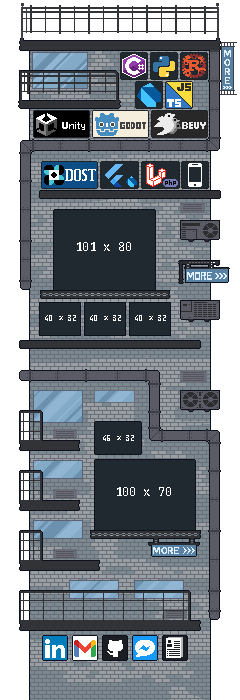
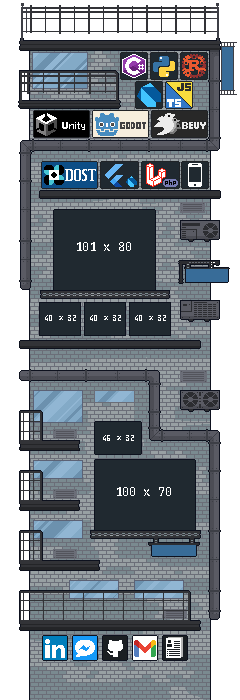
tweak: update building
'More' buttons now use consistent font
swapped position of Messenger and Email

diff --git a/src/lib/interactive/systems/InteractionManager.ts b/src/lib/interactive/systems/InteractionManager.ts
@@ -410,11 +410,11 @@ export class InteractionManager {
 
 		var clickArea = this.addClickArea(
 			new BoundingBox(72.5, 97.5, 635.5, 660.5),
-			'Show email',
-			InteractionManager.makeSpeechBubbleFunc(import.meta.env.VITE_CONTACT_EMAIL, 'char'),
-			'Email Contact Form (New Tab)',
+			'Show Link',
+			InteractionManager.makeSpeechBubbleFunc(import.meta.env.VITE_MESSENGER_LINK, 'char'),
+			'Messenger (New Tab)',
 			(context) => {
-				window.open(import.meta.env.VITE_CONTACT_EMAIL, '_blank');
+				window.open(import.meta.env.VITE_MESSENGER_LINK, '_blank');
 			}
 		);
 		this.addInteractArea(7, 9, 61, clickArea);
@@ -432,11 +432,9 @@ export class InteractionManager {
 
 		var clickArea = this.addClickArea(
 			new BoundingBox(132.5, 157.5, 635.5, 660.5),
-			'Show Link',
-			InteractionManager.makeSpeechBubbleFunc(import.meta.env.VITE_MESSENGER_LINK, 'char'),
-			'Messenger (New Tab)',
+			'Email Contact Form (Jump)',
 			(context) => {
-				window.open(import.meta.env.VITE_MESSENGER_LINK, '_blank');
+				location.hash = '#contact-form';
 			}
 		);
 		this.addInteractArea(13, 15, 61, clickArea);

diff --git a/src/lib/components/interactive/Interactive.svelte b/src/lib/components/interactive/Interactive.svelte
@@ -301,6 +301,33 @@
 				.textColor(textColor)
 				.textAlign(context.p5.LEFT, context.p5.CENTER);
 		});
+
+		addFixedRunner((context) => {
+			context.drawing
+				.text(228, 69, 'M\nO\nR\nE', BUILDING.FONT_SIZE, BUILDING.Z_INDEX)
+				.font(context.preloads.font('Press Start 2P'))
+				.stroke(strokeColor, BUILDING.TEXT_OUTLINE_WEIGHT)
+				.textColor(textColor)
+				.textAlign(context.p5.CENTER, context.p5.CENTER);
+		});
+
+		addFixedRunner((context) => {
+			context.drawing
+				.text(208, 276, 'MORE', BUILDING.FONT_SIZE, BUILDING.Z_INDEX)
+				.font(context.preloads.font('Press Start 2P'))
+				.stroke(strokeColor, BUILDING.TEXT_OUTLINE_WEIGHT)
+				.textColor(textColor)
+				.textAlign(context.p5.CENTER, context.p5.CENTER);
+		});
+
+		addFixedRunner((context) => {
+			context.drawing
+				.text(174, 551, 'MORE', BUILDING.FONT_SIZE, BUILDING.Z_INDEX)
+				.font(context.preloads.font('Press Start 2P'))
+				.stroke(strokeColor, BUILDING.TEXT_OUTLINE_WEIGHT)
+				.textColor(textColor)
+				.textAlign(context.p5.CENTER, context.p5.CENTER);
+		});
 	}
 
 	// draws ui to assist in development
